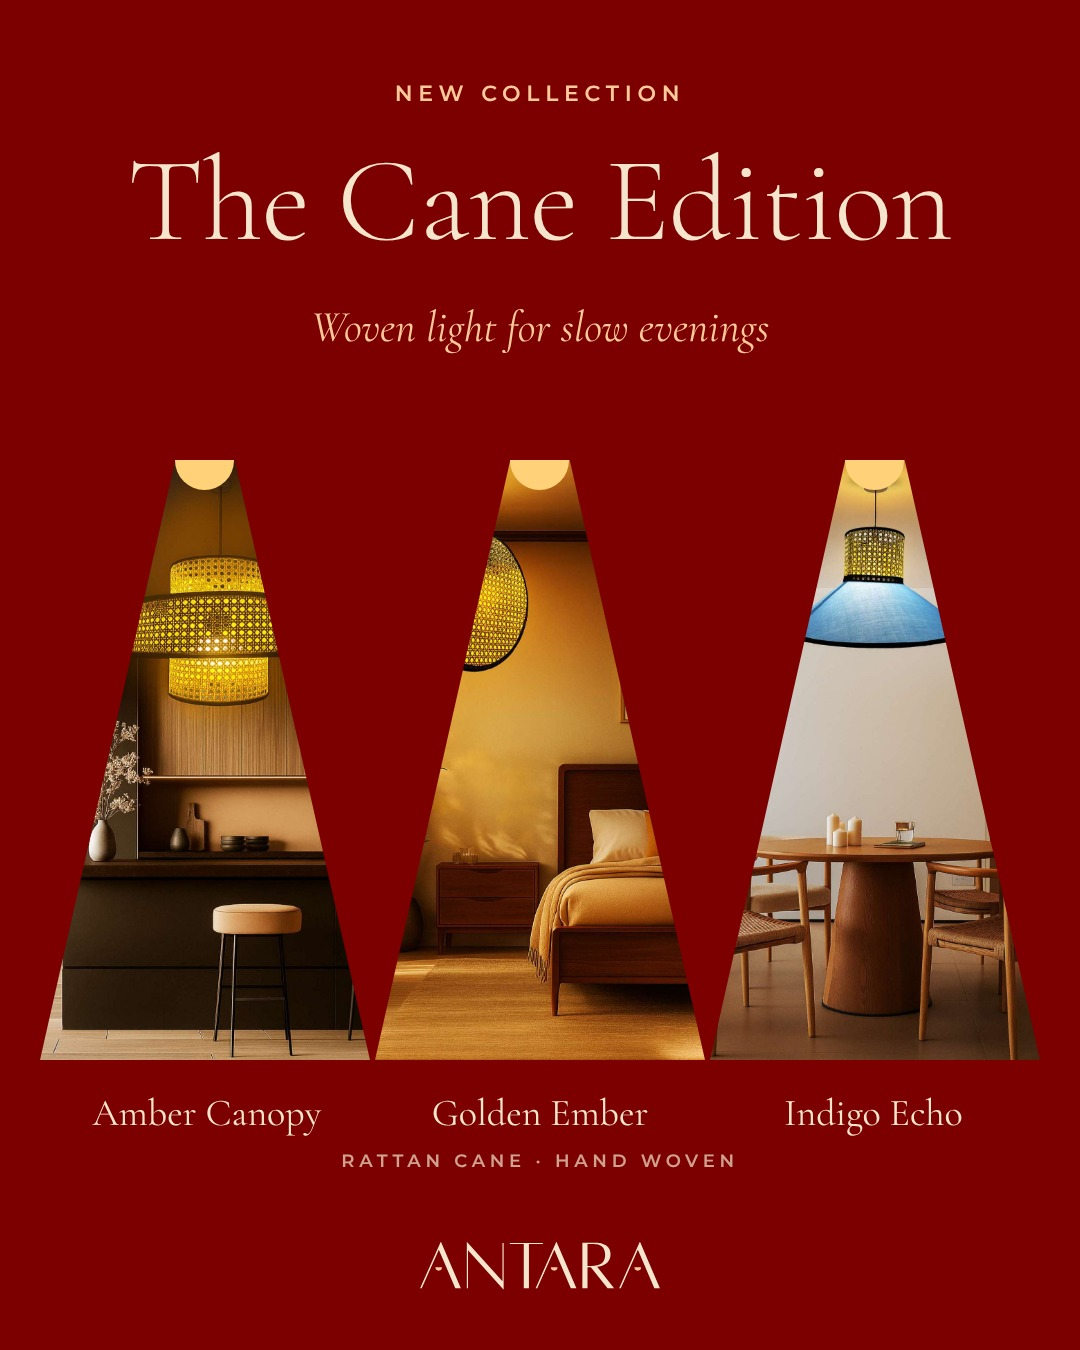
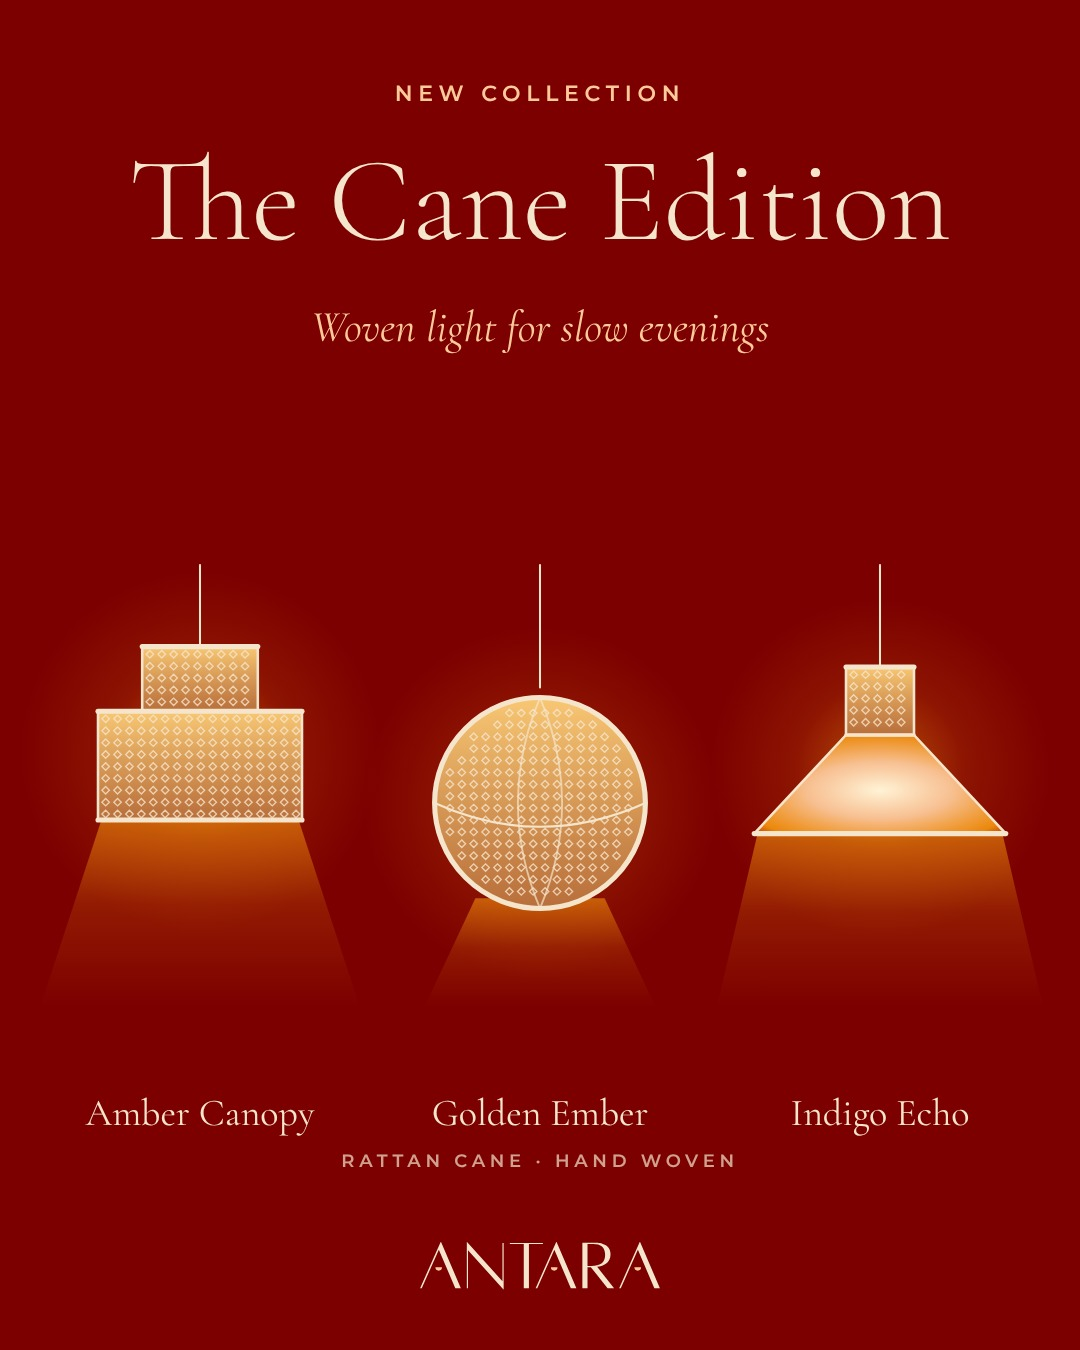
Cane Edition post: replace photo cones with line illustrations of the three lights
Claude-Session: https://claude.ai/code/session_01C44tHisK2P36zgEunUP3Hk

Changed region(s): [[0.0306, 0.3422, 0.9778, 0.84], [0.3056, 0.0933, 0.8861, 0.1867], [0.1222, 0.0933, 0.275, 0.1867]]

diff --git a/antara-brand/social/post-cane-edition-source.html b/antara-brand/social/post-cane-edition-source.html
@@ -1,0 +1,35 @@
+<!doctype html><html><head><meta charset="utf-8">
+<link rel="stylesheet" href="https://fonts.googleapis.com/css2?family=Cormorant+Garamond:ital,wght@0,300;0,400;0,500;1,300;1,400&family=Montserrat:wght@400;500;600&display=swap">
+<style>
+*{box-sizing:border-box;margin:0}
+body{background:#888;font-family:Montserrat,Arial,sans-serif}
+.post{position:relative;width:1080px;height:1350px;overflow:hidden}
+.lbl{font-size:22px;font-weight:600;letter-spacing:.26em;text-transform:uppercase}
+.disp{font-family:"Cormorant Garamond",Garamond,serif;font-weight:300;line-height:1.02}
+.lamp{position:absolute;width:340px;height:442px;overflow:visible}
+</style></head><body>
+<svg width="0" height="0" style="position:absolute"><defs><!--GRAD--><!--SYM--></defs></svg>
+<div class="post" id="canepost" style="background:#7C0000;color:#F5E5CC;--ink:#F5E5CC;--tile:#7C0000">
+  <p class="lbl" style="position:absolute;top:80px;left:0;right:0;text-align:center;color:#FECA9A">New collection</p>
+  <p class="disp" style="position:absolute;top:140px;left:0;right:0;text-align:center;font-size:120px">The Cane Edition</p>
+  <p style="position:absolute;top:300px;left:0;right:0;text-align:center;font-family:'Cormorant Garamond',serif;font-style:italic;font-size:44px;color:#FECA9A">Woven light for slow evenings</p>
+  <svg class="lamp" data-lamp="canedrum" viewBox="0 0 200 260" style="left:30px;top:565px"></svg>
+  <svg class="lamp" data-lamp="caneorb" viewBox="0 0 200 260" style="left:370px;top:565px"></svg>
+  <svg class="lamp" data-lamp="canecone" viewBox="0 0 200 260" style="left:710px;top:565px"></svg>
+  <div style="position:absolute;top:1090px;left:30px;right:30px;display:grid;grid-template-columns:repeat(3,1fr);text-align:center;font-family:'Cormorant Garamond',serif;font-size:38px">
+    <span>Amber Canopy</span><span>Golden Ember</span><span>Indigo Echo</span></div>
+  <p class="lbl" style="position:absolute;top:1150px;left:0;right:0;text-align:center;font-size:18px;color:rgba(245,229,204,.7)">Rattan cane · hand woven</p>
+  <svg viewBox="0 0 946 188" style="position:absolute;left:420px;bottom:60px;width:240px;--ink:#F5E5CC;--bulb:#FECA9A"><use href="#wm" width="946" height="188"/></svg>
+</div>
+<script>
+(() => {
+//LIGHTS
+  // Golden Ember: a round cane globe
+  const orbMesh = (() => { let d = ''; for (let y = 80; y <= 200; y += 7) for (let x = 40; x <= 160; x += 7) { if (Math.hypot(x - 100, y - 140) < 56) d += `M${(x - 2.2).toFixed(1)} ${y}l2.2 -2.2 2.2 2.2 -2.2 2.2z`; } return `<path d="${d}" fill="none" stroke="var(--ink)" stroke-width=".8" opacity=".8"/>`; })();
+  LIGHTS.caneorb = { svg: HALO(100, 140, 104) + POOL(62, 138, 196, 30) + CORD(0, 72) +
+    `<circle cx="100" cy="140" r="62" fill="var(--tile)"/><circle class="glow" cx="100" cy="140" r="62" fill="url(#cane)"/>` + orbMesh +
+    L('M100 72 m-62 68 a62 62 0 1 0 124 0 a62 62 0 1 0 -124 0', 3) + L('M38 140 Q100 168 162 140', 1.2) + L('M100 78 Q74 140 100 202', 1.1, 'opacity=".7"') + L('M100 78 Q126 140 100 202', 1.1, 'opacity=".7"') };
+  document.querySelectorAll('svg[data-lamp]').forEach(el => { el.innerHTML = LIGHTS[el.dataset.lamp].svg; });
+})();
+</script>
+</body></html>
